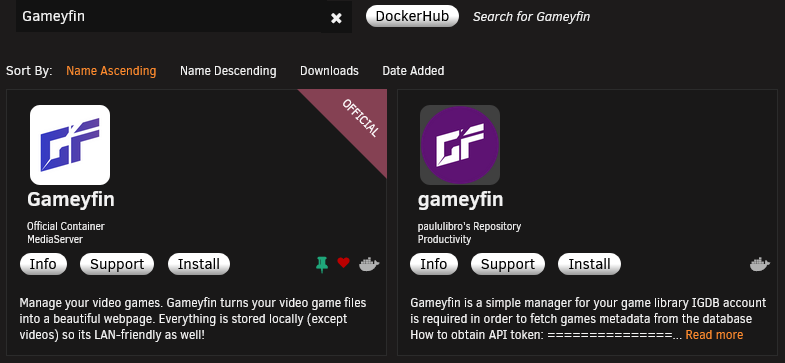
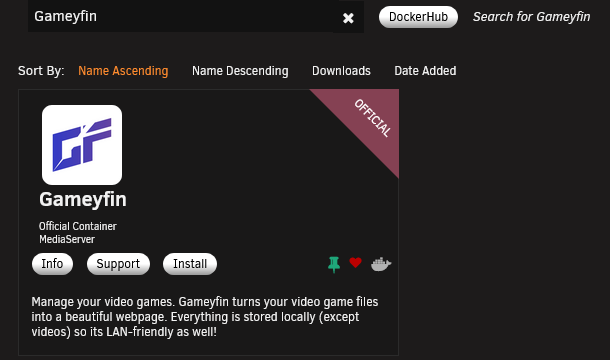
Update Unraid install guide to reflect the removal of the community-supported app

diff --git a/docs/installation/unraid.md b/docs/installation/unraid.md
@@ -12,15 +12,8 @@ Gameyfin has an official Unraid app available in the Community Applications plug
 
 ### Installation from Community Applications
 1. Open the Community Applications plugin in Unraid.
-2. Search for "Gameyfin".
-3. Click on the "gameyfin" app by "grimsi".
-
-!!! note
-
-    There is another app called "gameyfin" which is for Gameyfin v1 and should not be used for Gameyfin v2.  
-    **Please use the official app to be able to get support.**  
-    
-    ![img.png](../assets/installation/unraid-app-store.png)
+2. Search for "Gameyfin" (use the offical app).
+![img.png](../assets/installation/unraid-app-store.png)
 
 ### Configure and Install the App
 1. Click on "Install" to open the configuration page.
